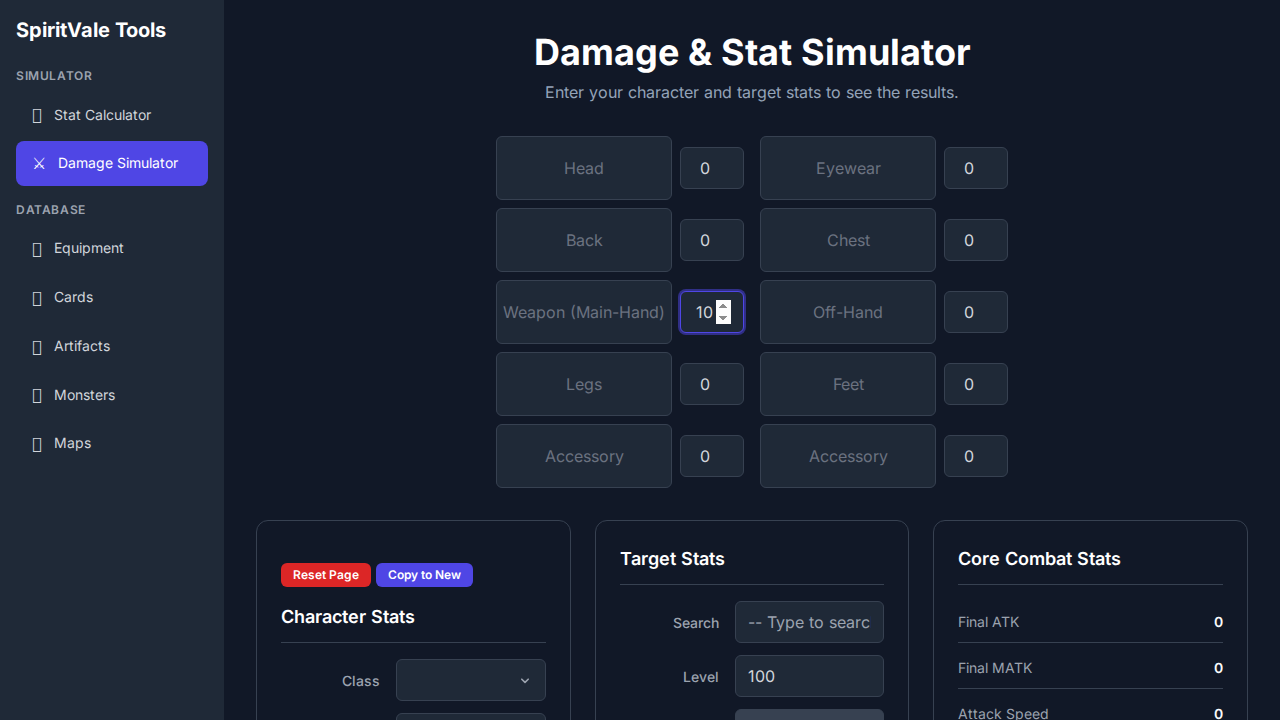
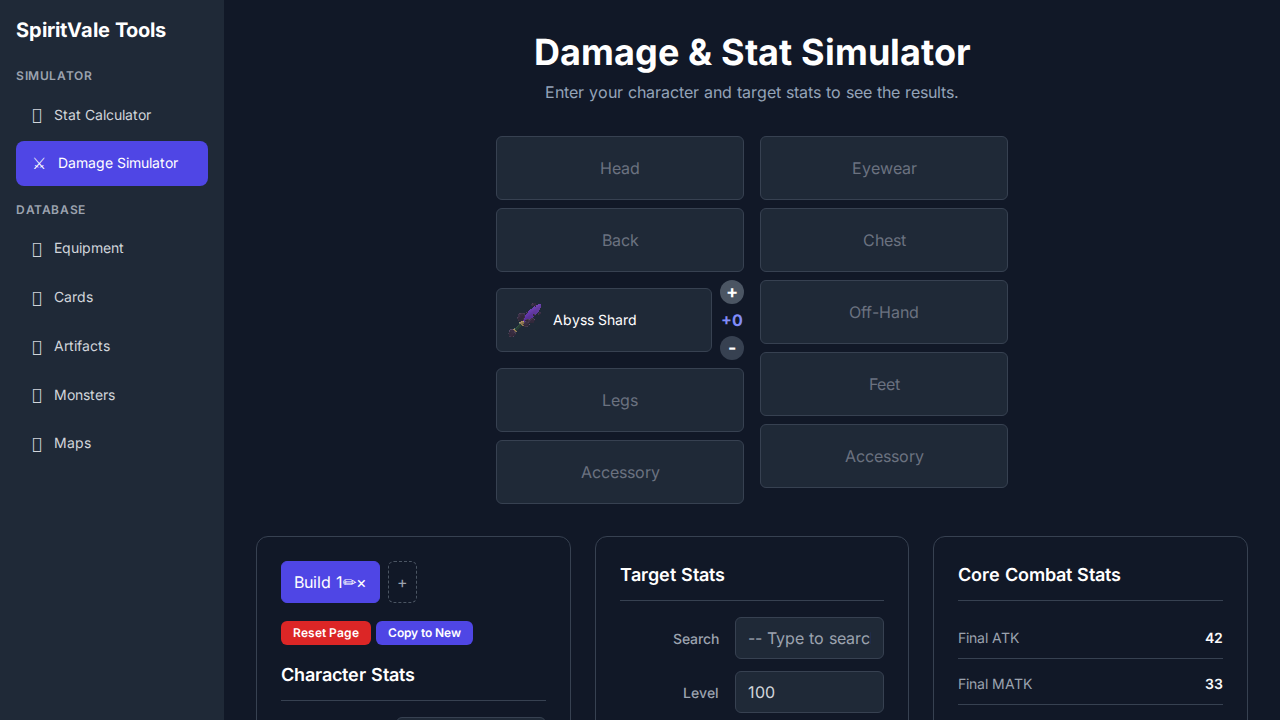
refactor: Replace refinement input with +/- buttons
This commit refactors the item refinement UI in the damage simulator. The number input field for setting a refinement level has been replaced with a more intuitive interface using `+` and `-` buttons.

Key changes:
- The `damage_simulator.html` file has been updated to dynamically generate the gear slots.
- The refinement level for each item is now controlled by `+` and `-` buttons, which appear next to an equipped item.
- The `main.js` file has been updated to handle the new UI, including event listeners for the buttons and logic to update the refinement level and trigger recalculations.
- The `equippedGear` data structure now correctly stores and updates the refinement level for each item.

diff --git a/main.js b/main.js
@@ -83,15 +83,26 @@ const allInputIds = [
     'p_crit_dmg_perc', 'p_aspd_perc', 'p_cspd_perc',
     'p_add_elemental_bonus', 'p_dmg_bonus_element', 'p_dmg_bonus_value',
     'p_dmg_vs_element_element', 'p_dmg_vs_element_value',
-    'p_dual_wield', 'p_weapon_bad', 'p_weapon_bad_offhand', 'p_element', 'p_is_ranged', 'p_flat_def',
-    'refine-head', 'refine-back', 'refine-weapon', 'refine-legs', 'refine-accessory1',
-    'refine-eyewear', 'refine-chest', 'refine-offhand', 'refine-feet', 'refine-accessory2'
+    'p_dual_wield', 'p_weapon_bad', 'p_weapon_bad_offhand', 'p_element', 'p_is_ranged', 'p_flat_def'
 ];
 
-const gearSlots = [
-    'head', 'back', 'weapon', 'legs', 'accessory1',
-    'eyewear', 'chest', 'offhand', 'feet', 'accessory2'
-];
+const gearSlotLayout = {
+    left: [
+        { id: 'head', name: 'Head' },
+        { id: 'back', name: 'Back' },
+        { id: 'weapon', name: 'Weapon (Main-Hand)' },
+        { id: 'legs', name: 'Legs' },
+        { id: 'accessory1', name: 'Accessory' }
+    ],
+    right: [
+        { id: 'eyewear', name: 'Eyewear' },
+        { id: 'chest', name: 'Chest' },
+        { id: 'offhand', name: 'Off-Hand' },
+        { id: 'feet', name: 'Feet' },
+        { id: 'accessory2', name: 'Accessory' }
+    ]
+};
+
 
 // This object will hold the state of the currently equipped gear
 let equippedGear = {};
@@ -283,20 +294,22 @@ function resetToDefaults() {
     saveCurrentBuild(); // Save the reset state
 }
 
-function updateGearSlotUI(slotId, equipmentId) {
-    const slotElement = document.getElementById(`gear-slot-${slotId}`);
-    if (!slotElement) return;
+function updateGearSlotUI(slotId) {
+    const gearInfo = equippedGear[slotId];
+    const slotWrapper = document.getElementById(`gear-slot-wrapper-${slotId}`);
+    if (!slotWrapper) return;
 
-    if (!slotElement.dataset.defaultText) {
-        slotElement.dataset.defaultText = slotElement.textContent;
-    }
+    const slotElement = slotWrapper.querySelector('.gear-slot');
+    const refineControls = slotWrapper.querySelector('.refine-controls');
+    const refineDisplay = slotWrapper.querySelector('.refine-display');
 
-    if (!equipmentId) {
+    if (!gearInfo || !gearInfo.itemId) {
         slotElement.innerHTML = `<span>${slotElement.dataset.defaultText}</span>`;
         slotElement.classList.add('justify-center', 'text-gray-500');
         slotElement.classList.remove('justify-start', 'p-2', 'space-x-2', 'items-center');
+        refineControls.classList.add('hidden');
     } else {
-        const item = window.equipmentData.find(e => e.EquipmentId === equipmentId);
+        const item = window.equipmentData.find(e => e.EquipmentId === gearInfo.itemId);
         if (item) {
             slotElement.innerHTML = `
                 <img src="Sprites/Equipment/${item.SpriteId}.png" alt="${item.Name}" class="w-10 h-10" style="image-rendering: pixelated;" onerror="this.src='Sprites/Equipment/notfound.png';">
@@ -304,30 +317,31 @@ function updateGearSlotUI(slotId, equipmentId) {
             `;
             slotElement.classList.remove('justify-center', 'text-gray-500');
             slotElement.classList.add('justify-start', 'p-2', 'space-x-2', 'items-center');
+            refineControls.classList.remove('hidden');
+            refineDisplay.textContent = `+${gearInfo.refine || 0}`;
         }
     }
 }
 
+
 function updateAllGearSlotsUI() {
-    gearSlots.forEach(slotId => {
-        const gearInfo = equippedGear[slotId];
-        const equipmentId = gearInfo ? gearInfo.itemId : null;
-        updateGearSlotUI(slotId, equipmentId);
+    Object.keys(gearSlotLayout.left).concat(Object.keys(gearSlotLayout.right)).forEach(slotId => {
+        updateGearSlotUI(slotId);
     });
 }
 
 window.equipItem = function(slotId, equipmentId) {
     if (!equippedGear[slotId]) {
-        equippedGear[slotId] = { refine: 0 };
+        equippedGear[slotId] = { itemId: null, refine: 0 };
     }
     equippedGear[slotId].itemId = equipmentId;
-    updateGearSlotUI(slotId, equipmentId);
+    updateGearSlotUI(slotId);
     calculateAll();
 }
 
 window.unequipItem = function(slotId) {
     delete equippedGear[slotId];
-    updateGearSlotUI(slotId, null);
+    updateGearSlotUI(slotId);
     calculateAll();
 }
 
@@ -494,6 +508,50 @@ async function handleReset() {
 }
 
 // --- UI Generation & Listeners ---
+function initializeGearSlots() {
+    const leftCol = document.getElementById('gear-column-left');
+    const rightCol = document.getElementById('gear-column-right');
+
+    const createSlot = (slot) => {
+        const wrapper = document.createElement('div');
+        wrapper.id = `gear-slot-wrapper-${slot.id}`;
+        wrapper.className = 'flex items-center space-x-2';
+        wrapper.innerHTML = `
+            <div id="gear-slot-${slot.id}" class="gear-slot flex-1 h-16 bg-gray-800 rounded-md border border-gray-700 cursor-pointer flex items-center justify-center text-gray-500" data-default-text="${slot.name}">${slot.name}</div>
+            <div id="refine-controls-${slot.id}" class="refine-controls hidden flex flex-col items-center space-y-1">
+                <button class="refine-btn refine-plus bg-gray-700 hover:bg-gray-600 rounded-full w-6 h-6 flex items-center justify-center text-lg font-bold text-white">+</button>
+                <span class="refine-display font-bold text-indigo-400">+0</span>
+                <button class="refine-btn refine-minus bg-gray-700 hover:bg-gray-600 rounded-full w-6 h-6 flex items-center justify-center text-lg font-bold text-white">-</button>
+            </div>
+        `;
+        return wrapper;
+    };
+
+    gearSlotLayout.left.forEach(slot => leftCol.appendChild(createSlot(slot)));
+    gearSlotLayout.right.forEach(slot => rightCol.appendChild(createSlot(slot)));
+
+    document.querySelectorAll('.refine-btn').forEach(button => {
+        button.addEventListener('click', (e) => {
+            const wrapper = e.target.closest('.flex');
+            const slotId = wrapper.id.replace('gear-slot-wrapper-', '').replace('refine-controls-','');
+
+            if (!equippedGear[slotId] || !equippedGear[slotId].itemId) return;
+
+            let currentRefine = equippedGear[slotId].refine || 0;
+
+            if (e.target.classList.contains('refine-plus')) {
+                currentRefine = Math.min(10, currentRefine + 1);
+            } else if (e.target.classList.contains('refine-minus')) {
+                currentRefine = Math.max(0, currentRefine - 1);
+            }
+
+            equippedGear[slotId].refine = currentRefine;
+            wrapper.querySelector('.refine-display').textContent = `+${currentRefine}`;
+            calculateAll();
+        });
+    });
+}
+
 function initializeMonsterSearch() {
     if (typeof monsters === 'undefined' || monsters.length === 0) {
         console.error("Monster data not found or is empty. Make sure monsters.js is loaded correctly.");
@@ -606,6 +664,7 @@ document.addEventListener('DOMContentLoaded', function() {
             processAllData();
         }
 
+        initializeGearSlots();
         // --- Initialize Class Selector ---
         const classSelect = document.getElementById('p_class');
         const statInputs = {

diff --git a/damage_simulator.html b/damage_simulator.html
@@ -219,51 +219,9 @@
         <div id="gear-builder" class="mb-8">
             <div class="grid grid-cols-2 gap-x-4 max-w-lg mx-auto">
                 <!-- Left Column -->
-                <div class="space-y-2">
-                    <div class="flex items-center space-x-2">
-                        <div id="gear-slot-head" class="gear-slot flex-1 h-16 bg-gray-800 rounded-md border border-gray-700 cursor-pointer flex items-center justify-center text-gray-500">Head</div>
-                        <input type="number" id="refine-head" min="0" max="10" value="0" class="refine-input w-16 input-base text-center" title="Refinement Level">
-                    </div>
-                    <div class="flex items-center space-x-2">
-                        <div id="gear-slot-back" class="gear-slot flex-1 h-16 bg-gray-800 rounded-md border border-gray-700 cursor-pointer flex items-center justify-center text-gray-500">Back</div>
-                        <input type="number" id="refine-back" min="0" max="10" value="0" class="refine-input w-16 input-base text-center" title="Refinement Level">
-                    </div>
-                    <div class="flex items-center space-x-2">
-                        <div id="gear-slot-weapon" class="gear-slot flex-1 h-16 bg-gray-800 rounded-md border border-gray-700 cursor-pointer flex items-center justify-center text-gray-500">Weapon (Main-Hand)</div>
-                        <input type="number" id="refine-weapon" min="0" max="10" value="0" class="refine-input w-16 input-base text-center" title="Refinement Level">
-                    </div>
-                    <div class="flex items-center space-x-2">
-                        <div id="gear-slot-legs" class="gear-slot flex-1 h-16 bg-gray-800 rounded-md border border-gray-700 cursor-pointer flex items-center justify-center text-gray-500">Legs</div>
-                        <input type="number" id="refine-legs" min="0" max="10" value="0" class="refine-input w-16 input-base text-center" title="Refinement Level">
-                    </div>
-                    <div class="flex items-center space-x-2">
-                        <div id="gear-slot-accessory1" class="gear-slot flex-1 h-16 bg-gray-800 rounded-md border border-gray-700 cursor-pointer flex items-center justify-center text-gray-500">Accessory</div>
-                        <input type="number" id="refine-accessory1" min="0" max="10" value="0" class="refine-input w-16 input-base text-center" title="Refinement Level">
-                    </div>
-                </div>
+                <div id="gear-column-left" class="space-y-2"></div>
                 <!-- Right Column -->
-                <div class="space-y-2">
-                    <div class="flex items-center space-x-2">
-                        <div id="gear-slot-eyewear" class="gear-slot flex-1 h-16 bg-gray-800 rounded-md border border-gray-700 cursor-pointer flex items-center justify-center text-gray-500">Eyewear</div>
-                        <input type="number" id="refine-eyewear" min="0" max="10" value="0" class="refine-input w-16 input-base text-center" title="Refinement Level">
-                    </div>
-                    <div class="flex items-center space-x-2">
-                        <div id="gear-slot-chest" class="gear-slot flex-1 h-16 bg-gray-800 rounded-md border border-gray-700 cursor-pointer flex items-center justify-center text-gray-500">Chest</div>
-                        <input type="number" id="refine-chest" min="0" max="10" value="0" class="refine-input w-16 input-base text-center" title="Refinement Level">
-                    </div>
-                    <div class="flex items-center space-x-2">
-                        <div id="gear-slot-offhand" class="gear-slot flex-1 h-16 bg-gray-800 rounded-md border border-gray-700 cursor-pointer flex items-center justify-center text-gray-500">Off-Hand</div>
-                        <input type="number" id="refine-offhand" min="0" max="10" value="0" class="refine-input w-16 input-base text-center" title="Refinement Level">
-                    </div>
-                    <div class="flex items-center space-x-2">
-                        <div id="gear-slot-feet" class="gear-slot flex-1 h-16 bg-gray-800 rounded-md border border-gray-700 cursor-pointer flex items-center justify-center text-gray-500">Feet</div>
-                        <input type="number" id="refine-feet" min="0" max="10" value="0" class="refine-input w-16 input-base text-center" title="Refinement Level">
-                    </div>
-                    <div class="flex items-center space-x-2">
-                        <div id="gear-slot-accessory2" class="gear-slot flex-1 h-16 bg-gray-800 rounded-md border border-gray-700 cursor-pointer flex items-center justify-center text-gray-500">Accessory</div>
-                        <input type="number" id="refine-accessory2" min="0" max="10" value="0" class="refine-input w-16 input-base text-center" title="Refinement Level">
-                    </div>
-                </div>
+                <div id="gear-column-right" class="space-y-2"></div>
             </div>
         </div>
 

diff --git a/jules-scratch/verification/verify_refinement_ui.py b/jules-scratch/verification/verify_refinement_ui.py
@@ -1,0 +1,78 @@
+from playwright.sync_api import sync_playwright, Page, expect
+
+def run_verification(page: Page):
+    """
+    Verifies the new refinement UI with + and - buttons.
+    """
+    print("Navigating to the damage simulator...")
+    page.goto("http://localhost:8000/damage_simulator.html")
+    page.wait_for_load_state("networkidle")
+
+    # --- Verification Step 1: Equip an item ---
+    print("Equipping 'Abyss Shard'...")
+    page.locator("#gear-slot-weapon").click()
+    expect(page.locator("#equipment-modal-overlay")).to_be_visible()
+    page.locator("#equipment-modal-search").fill("Abyss Shard")
+    page.locator('.equipment-card[data-item-name="Abyss Shard"]').click()
+    expect(page.locator("#equipment-modal-overlay")).not_to_be_visible()
+
+    # --- Verification Step 2: Test '+' button ---
+    print("Testing the '+' refinement button...")
+    refine_wrapper = page.locator("#gear-slot-wrapper-weapon")
+    plus_button = refine_wrapper.locator(".refine-plus")
+    refine_display = refine_wrapper.locator(".refine-display")
+
+    # Click '+' 5 times
+    for _ in range(5):
+        plus_button.click()
+
+    # Verify display and stats
+    print("Verifying refinement level is +5...")
+    expect(refine_display).to_have_text("+5")
+
+    # At refine +5, Atk should be 20 + (2 * 5) = 30
+    # Matk should be 10 + (1 * 5) = 15
+    print("Verifying stats for +5 refinement...")
+    expect(page.locator("#p_weapon_atk")).to_have_value("30")
+    expect(page.locator("#p_weapon_matk")).to_have_value("15")
+
+    # --- Verification Step 3: Test '-' button ---
+    print("Testing the '-' refinement button...")
+    minus_button = refine_wrapper.locator(".refine-minus")
+
+    # Click '-' 2 times
+    for _ in range(2):
+        minus_button.click()
+
+    # Verify display and stats
+    print("Verifying refinement level is +3...")
+    expect(refine_display).to_have_text("+3")
+
+    # At refine +3, Atk should be 20 + (2 * 3) = 26
+    # Matk should be 10 + (1 * 3) = 13
+    print("Verifying stats for +3 refinement...")
+    expect(page.locator("#p_weapon_atk")).to_have_value("26")
+    expect(page.locator("#p_weapon_matk")).to_have_value("13")
+
+    print("Refinement UI verification successful.")
+
+    # --- Final Screenshot ---
+    screenshot_path = "jules-scratch/verification/refinement_verification.png"
+    print(f"Taking screenshot: {screenshot_path}")
+    page.screenshot(path=screenshot_path)
+    print("Verification script finished successfully.")
+
+def main():
+    with sync_playwright() as p:
+        browser = p.chromium.launch(headless=True)
+        page = browser.new_page()
+        try:
+            run_verification(page)
+        except Exception as e:
+            print(f"An error occurred: {e}")
+            page.screenshot(path="jules-scratch/verification/error.png")
+        finally:
+            browser.close()
+
+if __name__ == "__main__":
+    main()
